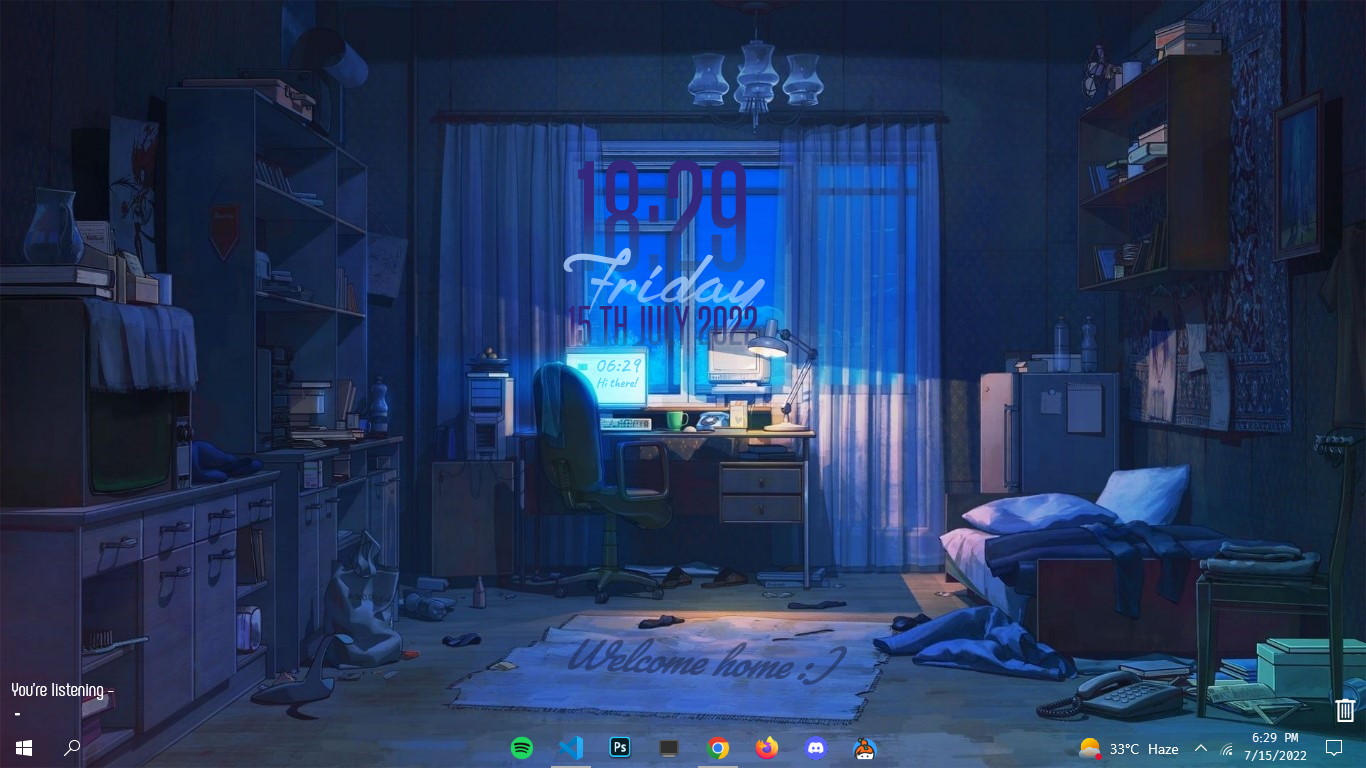
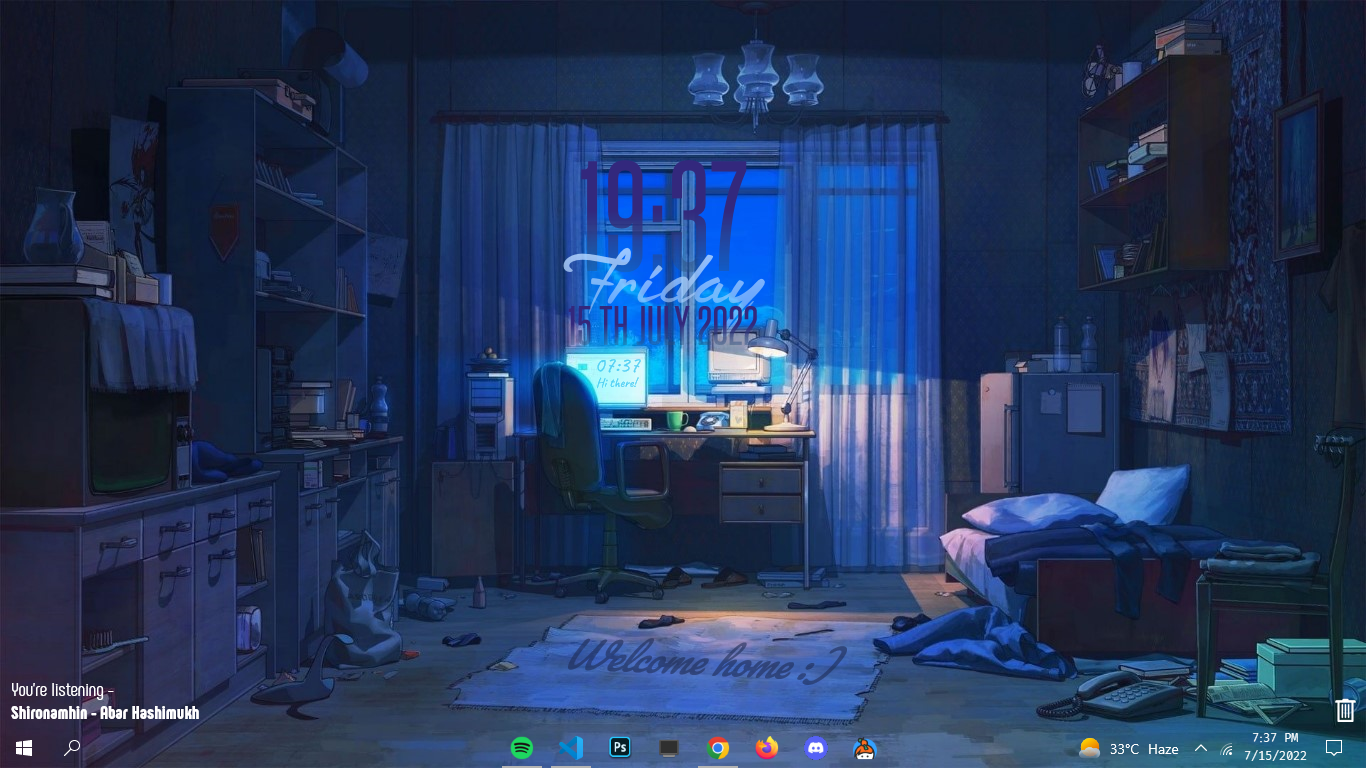
Added rainmeter widget links & updated ss😊

Changed region(s): [[0.4305, 0.2188, 0.5534, 0.375], [0.0, 0.9062, 0.1537, 0.9375], [0.4305, 0.4688, 0.4612, 0.5]]

diff --git a/README.md b/README.md
@@ -36,6 +36,18 @@ Some config files from my windows10 environment
 - File icons: [File icons](https://marketplace.visualstudio.com/items?itemName=file-icons.file-icons)
 - product icons: [Carbon](https://marketplace.visualstudio.com/items?itemName=antfu.icons-carbon)
 
+##### Rainmeter widget links:
+1. Main Clock (above computer): [here](https://www.deviantart.com/madmilov2/art/La-Compagnie-des-Ombres-486976404)
+
+2. welcome bacc on mat: [here](https://www.deviantart.com/catart-1304/art/Night-Clouds-0-1-912464750)
+
+3. clock on pc and the thing written there: [here](
+https://www.deviantart.com/catart-1304/art/Long-Night-by-Cat-Art-912676649)
+
+4. Bin on bottom right: [here](https://www.deviantart.com/mixsilmeria/art/Just-A-Bin-679398750)
+
+5. Spotify info on bottom left: [here](https://www.deviantart.com/apexxx-sensei/art/Astro-804775100)
+
 ##### Firefox setup:
 <details>
 <summary>Click me👆</summary>
